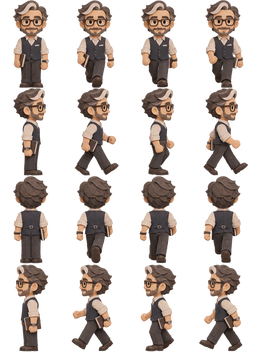
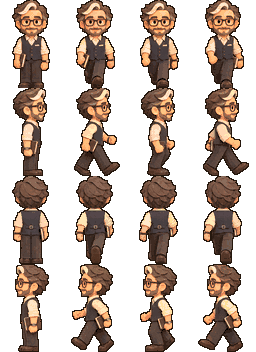
James and Mike in the village's style: pixel-art walk sprites with outline, painted-look portraits on dark background, warmer Investment studio
Claude-Session: https://claude.ai/code/session_01Y5Vq5MY5R98tUMSQqTrVD3

diff --git a/index.html b/index.html
@@ -47,4 +47,4 @@ html:not([data-paperworld-maintenance="yes"]) .building-placement-panel,
 html:not([data-paperworld-maintenance="yes"]) .crow-technical-tools,
 html:not([data-paperworld-maintenance="yes"]) .village-maintenance-only {display:none!important}
 </style><script>if(new URLSearchParams(location.search).get('maintenance')==='1')document.documentElement.dataset.paperworldMaintenance='yes'</script></head><body><header><strong>PAPERWORLD</strong><span>YOUR LIVING AI VILLAGE</span></header><div class="layout"><main id="view"><canvas id="map" aria-label="Paperworld enlarged village preview; drag to move camera and tap a building to inspect"></canvas><div class="controls"><button id="path-editor-toggle" type="button" aria-pressed="false" title="Σχεδίαση διαδρομών">Paths</button><button id="building-placement-toggle" type="button" aria-pressed="false" title="Μετακίνηση κτιρίων">Τοποθέτηση κτιρίων</button><button id="world-talk-matt" type="button" aria-label="Talk to Matt" title="Talk to Matt">M</button><button id="world-work-panel" type="button" aria-label="Οι εργασίες μου" title="Οι εργασίες μου">✓</button><button id="depth-demo" class="depth-demo" type="button" aria-label="Cycle isometric depth test">Depth test: Off</button><button id="plus" aria-label="Zoom in">+</button><button id="minus" aria-label="Zoom out">−</button><button id="home" aria-label="Fit world">⌂</button></div><section id="path-editor-panel" class="building-placement-panel path-editor-panel" hidden aria-label="Σχεδιασμός διαδρομών"><strong>Σχεδίαση διαδρομών</strong><p id="path-editor-status">Επεξεργασία διαδρομών</p><label for="path-editor-mode">Εργαλείο</label><select id="path-editor-mode"><option value="draw">Σχεδίαση / σύνδεση</option><option value="move">Μετακίνηση κόμβου</option><option value="erase">Διαγραφή σύνδεσης</option><option value="hidden">Κρυφή διαδρομή</option></select><label class="path-editor-check"><input id="path-editor-show-hidden" type="checkbox" checked> Εμφάνιση κρυφών διαδρομών</label><div class="building-placement-actions"><button id="path-editor-undo" type="button">Αναίρεση</button><button id="path-editor-reset" type="button">Επαναφορά paths</button><button id="path-editor-copy" type="button">Αντιγραφή paths</button><button id="path-editor-finish" type="button">Τέλος</button></div><textarea id="path-editor-export" rows="6" readonly hidden aria-label="Path survey JSON"></textarea><small>Δοκιμαστικό σχέδιο μόνο σε αυτόν τον browser. Οι χαρακτήρες συνεχίζουν να χρησιμοποιούν τα εγκεκριμένα paths μέχρι να τα επιβεβαιώσουμε.</small></section><section id="building-placement-panel" class="building-placement-panel" hidden aria-label="Επεξεργασία θέσεων κτιρίων"><strong>Τοποθέτηση κτιρίων</strong><p id="building-placement-status">Άγγιξε ένα κτίριο για να το επιλέξεις.</p><div class="building-placement-actions"><button id="building-nudge-left" type="button" aria-label="Αριστερά">←</button><button id="building-nudge-right" type="button" aria-label="Δεξιά">→</button><button id="building-nudge-up" type="button" aria-label="Πάνω">↑</button><button id="building-nudge-down" type="button" aria-label="Κάτω">↓</button><button id="building-placement-reset" type="button">Επαναφορά κτιρίου</button><button id="building-placement-reset-all" type="button">Επαναφορά όλων</button><button id="building-placement-copy" type="button">Αντιγραφή θέσεων</button><button id="building-placement-finish" type="button">Τέλος</button></div><textarea id="building-placement-export" rows="6" readonly hidden aria-label="Building placement JSON"></textarea><small>Οι αλλαγές αποθηκεύονται μόνο σε αυτόν τον browser. Η κανονική λειτουργία του χωριού δεν αλλάζει μέχρι το τελικό PR.</small></section><div class="hint">Άγγιξε το χωριό για να περπατήσεις · M: Matt · T: κοντινός συνεργάτης</div></main><aside id="world-drawer" hidden><div class="world-drawer-head"><small>ΟΙ ΕΡΓΑΣΙΕΣ ΜΟΥ</small><button id="close-world-drawer" type="button" aria-label="Close work desk">×</button></div><h1 id="name">Το χωριό σου</h1><p id="desc">Επίλεξε ένα κτίριο ή μίλησε στον Matt.</p><div class="workspace-actions"><button id="walkway-overlay" type="button" class="open-projects" aria-label="Toggle walkable path overlay" aria-pressed="false" title="Show collision-checked walkable paths">Paths: Off</button><button id="call-visual-meeting" type="button" class="open-projects" title="Οπτική συνάντηση και πραγματική ενημέρωση εργασιών · χωρίς AI κλήση">Town Hall · συντονισμός</button><button id="open-projects" class="open-projects" type="button">Οι εργασίες μου</button><button id="open-chief" class="open-projects chief-launch" type="button">Talk to Matt</button></div><details class="dev-tools"><summary>Map calibration tools</summary><div class="marker-editor"><button id="calibrate-marker" type="button" disabled>Place marker on door</button><button id="reset-marker" type="button" disabled>Reset</button><p id="marker-status">Select a building to adjust its marker.</p><button id="export-markers" type="button">Copy all 5 door positions</button><textarea id="marker-export-output" rows="5" readonly hidden aria-label="Door calibration coordinates"></textarea></div></details><details class="dev-tools"><summary>Technical asset status</summary><section><b>Village status</b><div id="assets"></div><p>Five project rooms are available. Navigation and artwork refinement continues.</p></section></details><div id="project-room" class="project-room" hidden aria-live="polite"></div><p class="disclaimer">Οι σημαντικές αποφάσεις και οι δημοσιεύσεις παραμένουν υπό τον έλεγχό σου.</p></aside></div><script src="./js/i18n.js?v=bilingual-v1-context" defer></script><script src="./js/owner-path-survey.js?v=20261121-74" defer></script><script src="./js/navigation.js?v=owner-survey-safe-v5" defer></script><script src="./js/path-editor.js?v=1" defer></script><script src="./js/depth.js?v=sidewalk-depth-v2" defer></script><script src="./js/projects.js" defer></script><script src="./js/rooms-ui.js" defer></script><script src="./js/cloud.js?v=bilingual-v1-suno-cap-tidy-push-tools-link-stage-ideas-inventory-redo-james-shop-page-mike" defer></script><script src="./js/agent-conversation-store.js?v=43-mike" defer></script><script src="./js/chief.js?v=28" defer></script><script src="./js/agents.js?v=39-mike" defer></script><script src="./js/director-memory-review.js?v=2-r2-f1" defer></script><script src="./js/director-history-import.js?v=1" defer></script><script src="./js/director-history-import-ui.js?v=1-f1" defer></script><script src="./js/listening-review.js?v=human-first-v3" defer></script><script src="./js/autonomy-public-feed.js?v=unattended-v5" defer></script><script src="./js/human-first-hub.js?v=responsive-1-tidy-slim-f2" defer></script><script src="./js/town-hall-briefing.js?v=integrated-v4-f1" defer></script><script src="./js/village-activity.js?v=human-v3-reasons-audit-r2-redone" defer></script><script src="./js/cloud-ui.js?v=release-1-phase2-tidy-push-ideas-audit-r2-f1-redo-shop-page-mike" defer></script><script src="./js/visual-agent-workflow.js?v=1" defer></script><script src="./js/director-movement.js?v=owner-connected-v2-townhall" defer></script><script src="./js/town-hall-interior.js?v=3-scene-audit-r2-week-fast" defer></script><script src="./js/workspace-interior.js?v=3-scenes-audit-james-mike-art" defer></script><script src="./js/push-notify.js?v=2-app" defer></script><script src="./js/director-actions-client.js?v=2-studio-v2-voice2" defer></script><script src="./js/proof.js?v=4-redone" defer></script>
-<script src="./js/village-life.js?v=3-strolls-work" defer></script><script src="./js/camera-framing.js?v=responsive-1-board-follow" defer></script><script src="./js/resident-status.js?v=1&stall=1-audit-f1-redo-redone" defer></script><script src="./js/village-ambience.js?v=2-night" defer></script><script src="./js/village-sound.js?v=1" defer></script><script src="./js/app.js?v=responsive-1-living-v3-board-follow-night-townhall-ws-audit-f2-shop2-mike-art-fast" defer></script><script src="./js/matt-history.js?v=full-replies-v3-notify-all" defer></script><script src="./js/agent-profiles.js?v=3-mike-mike-art" defer></script><script src="./js/team-panel.js?v=responsive-1-mike" defer></script><script src="./js/crow-suno-prompt.js?v=1" defer></script><script src="./js/crow-studio-draft.js?v=7-truthful-handoff-wordless-studio-v2-voice2" defer></script><script src="./js/messenger-format.js?v=messenger-v2-1" defer></script><script src="./js/routine-intent.js?v=release-1" defer></script><script src="./js/voice-input.js?v=1" defer></script><script src="./js/world-dialogue.js?v=release-1-routine-v4-composer-fix-cards-v2-phase5-living-context-starters-chime-handoff-tools-voice-ideas-audit-mem-song2-studio-v2-suno-inventory-voice2-f1-redo-b8-mike" defer></script><script src="./js/connection-status.js?v=responsive-1" defer></script><script src="./js/workspace.js?v=bilingual-v1-tidy-sound-push-ideas-proof-audit-mem-f2-redo-james-shop-page-mike" defer></script><script src="./js/resident-feed.js?v=1-board-fast-audit-week" defer></script><script src="./js/village-board.js?v=2-mike" defer></script></body></html>
+<script src="./js/village-life.js?v=3-strolls-work" defer></script><script src="./js/camera-framing.js?v=responsive-1-board-follow" defer></script><script src="./js/resident-status.js?v=1&stall=1-audit-f1-redo-redone" defer></script><script src="./js/village-ambience.js?v=2-night" defer></script><script src="./js/village-sound.js?v=1" defer></script><script src="./js/app.js?v=responsive-1-living-v3-board-follow-night-townhall-ws-audit-f2-shop2-mike-art-fast-style2" defer></script><script src="./js/matt-history.js?v=full-replies-v3-notify-all" defer></script><script src="./js/agent-profiles.js?v=3-mike-mike-art-style2" defer></script><script src="./js/team-panel.js?v=responsive-1-mike" defer></script><script src="./js/crow-suno-prompt.js?v=1" defer></script><script src="./js/crow-studio-draft.js?v=7-truthful-handoff-wordless-studio-v2-voice2" defer></script><script src="./js/messenger-format.js?v=messenger-v2-1" defer></script><script src="./js/routine-intent.js?v=release-1" defer></script><script src="./js/voice-input.js?v=1" defer></script><script src="./js/world-dialogue.js?v=release-1-routine-v4-composer-fix-cards-v2-phase5-living-context-starters-chime-handoff-tools-voice-ideas-audit-mem-song2-studio-v2-suno-inventory-voice2-f1-redo-b8-mike" defer></script><script src="./js/connection-status.js?v=responsive-1" defer></script><script src="./js/workspace.js?v=bilingual-v1-tidy-sound-push-ideas-proof-audit-mem-f2-redo-james-shop-page-mike" defer></script><script src="./js/resident-feed.js?v=1-board-fast-audit-week" defer></script><script src="./js/village-board.js?v=2-mike" defer></script></body></html>

diff --git a/js/app.js b/js/app.js
@@ -15,7 +15,7 @@ const defs=[
 // James's shop on the empty left plot; its door faces the path at node 48.
 {id:'shop',name:'Digital Business Studio',file:'./assets/digital-business-studio.webp',x:215,bottom:364,width:240,entrance:[222,338],approach:[364,346],desc:'James: research, digital products and sales.'},
 // Mike's studio on the round plot on the right; its door faces the path coming up from Wellbeing.
-{id:'markets',name:'Investment & Portfolio Studio',file:'./assets/investment-portfolio-studio.webp',x:1505,bottom:345,width:220,entrance:[1454,318],approach:[1333,358],desc:'Mike: your stocks and ETFs, every day. Private, read-only.'}
+{id:'markets',name:'Investment & Portfolio Studio',file:'./assets/investment-portfolio-studio.webp?v=style2',x:1505,bottom:345,width:220,entrance:[1454,318],approach:[1333,358],desc:'Mike: your stocks and ETFs, every day. Private, read-only.'}
 ];
 // Preview-only marker offsets are local to the user's browser; no GitHub writes.
 const markerKey='paperworld-preview-010-marker-calibration-v1';
@@ -303,11 +303,11 @@ function drawWellbeingDirectorSprite(a){
 // James (shop): the owner's walk sheet, 4 directions x 4 frames of 64x88.
 const shopDirectorVisual=new Image();
 shopDirectorVisual.decoding='async';
-shopDirectorVisual.src='./assets/shop-director-walk-v1.png';
+shopDirectorVisual.src='./assets/shop-director-walk-v1.png?v=style2';
 // Mike (markets): the owner's walk sheet, same layout as James's.
 const marketsDirectorVisual=new Image();
 marketsDirectorVisual.decoding='async';
-marketsDirectorVisual.src='./assets/markets-director-walk-v1.png';
+marketsDirectorVisual.src='./assets/markets-director-walk-v1.png?v=style2';
 function drawMarketsDirectorSprite(a){return drawSheetSprite(a,marketsDirectorVisual)}
 function drawShopDirectorSprite(a){return drawSheetSprite(a,shopDirectorVisual)}
 function drawSheetSprite(a,sheet){

diff --git a/js/agent-profiles.js b/js/agent-profiles.js
@@ -7,9 +7,9 @@ const roster=Object.freeze({
  'studio-director':{name:'Crow',role:'Director',project:'The Lost Wanderer',kind:'director',portrait:'./assets/portraits/crow.webp',sheet:'studio-director-hooded-v2.png',rect:[96,0,96,132]},
  'wellbeing-director':{name:'Dave',role:'Director',project:'Wellbeing & Training',kind:'director',portrait:'./assets/portraits/dave.webp',sheet:'wellbeing-director-walk-hq-v2.png',rect:[64,0,64,88]},
  // James: the village trader. His own project: researching, making and selling digital products.
- 'shop-director':{name:'James',role:'Director',project:'Digital Shop',kind:'director',portrait:'./assets/portraits/james.webp',sheet:'shop-director-walk-v1.png',rect:[0,0,64,88]},
+ 'shop-director':{name:'James',role:'Director',project:'Digital Shop',kind:'director',portrait:'./assets/portraits/james.webp?v=style2',sheet:'shop-director-walk-v1.png',rect:[0,0,64,88]},
  // Mike: watches the owner's stocks and ETFs. Read-only, private, never advises.
- 'markets-director':{name:'Mike',role:'Director',project:'Markets',kind:'director',portrait:'./assets/portraits/mike.webp',sheet:'markets-director-walk-v1.png',rect:[0,0,64,88]},
+ 'markets-director':{name:'Mike',role:'Director',project:'Markets',kind:'director',portrait:'./assets/portraits/mike.webp?v=style2',sheet:'markets-director-walk-v1.png',rect:[0,0,64,88]},
  'listening-developer':{name:'Listening Mirror Developer',role:'Worker',project:'Listening Mirror',kind:'worker'},
  'pokemon-developer':{name:'Pokémon Developer',role:'Worker',project:'Pokémon: Echoes',kind:'worker'}
 });
